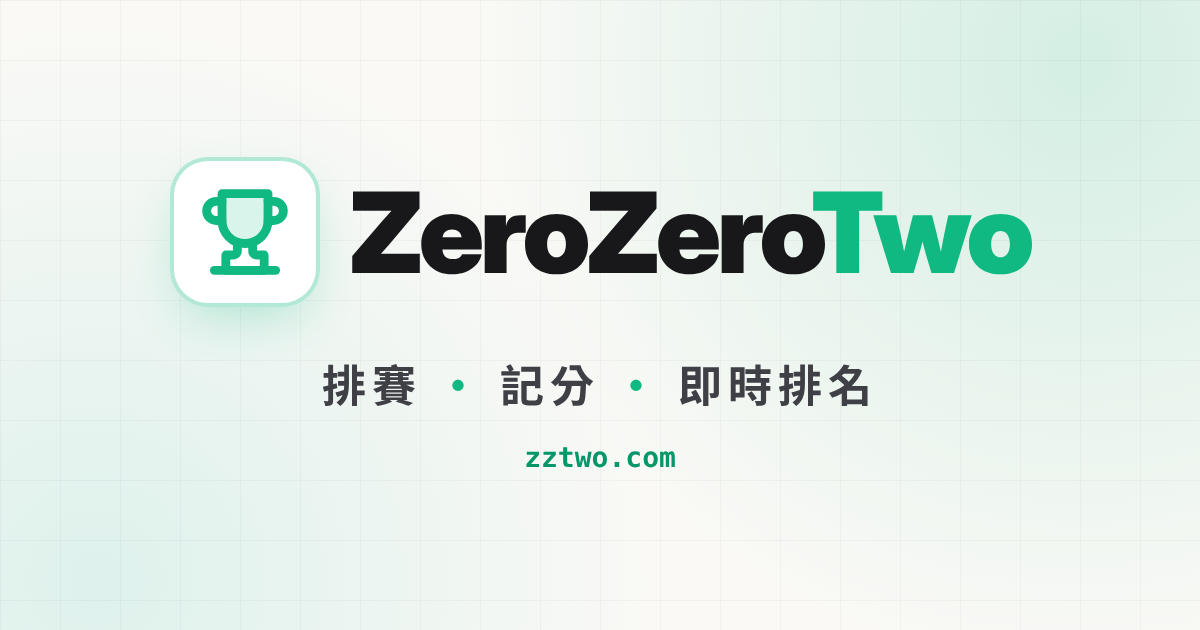
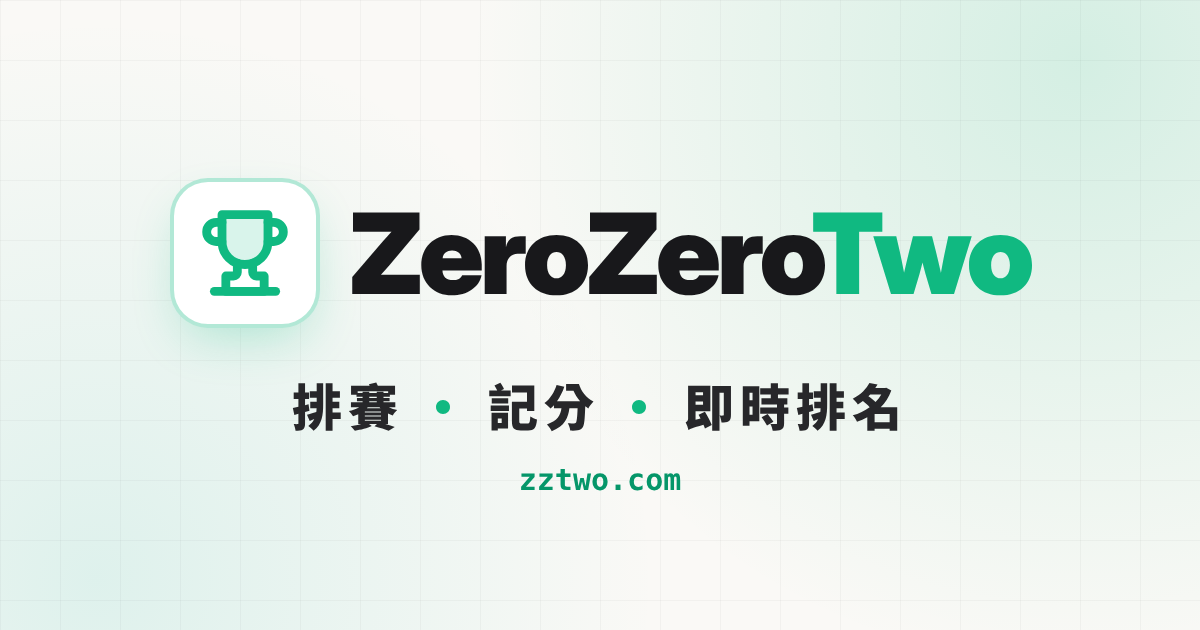
分享預覽圖調整：內容往下移、中間標語放大加粗，視覺置中 (#68)
Claude-Session: https://claude.ai/code/session_01Tt7FRxEnFNBTR5rLo2A7B6

diff --git a/index.html b/index.html
@@ -31,7 +31,7 @@
   <meta property="og:title" content="ZeroZeroTwo 匹克球賽事" />
   <meta property="og:description" content="點開即可報名、記分、看即時排名" />
   <meta property="og:url" content="https://zztwo.com/" />
-  <meta property="og:image" content="https://zztwo.com/og-image.png?v=1" />
+  <meta property="og:image" content="https://zztwo.com/og-image.png?v=2" />
   <meta property="og:image:width" content="1200" />
   <meta property="og:image:height" content="630" />
   <meta property="og:image:alt" content="ZeroZeroTwo 排賽・記分・即時排名" />
